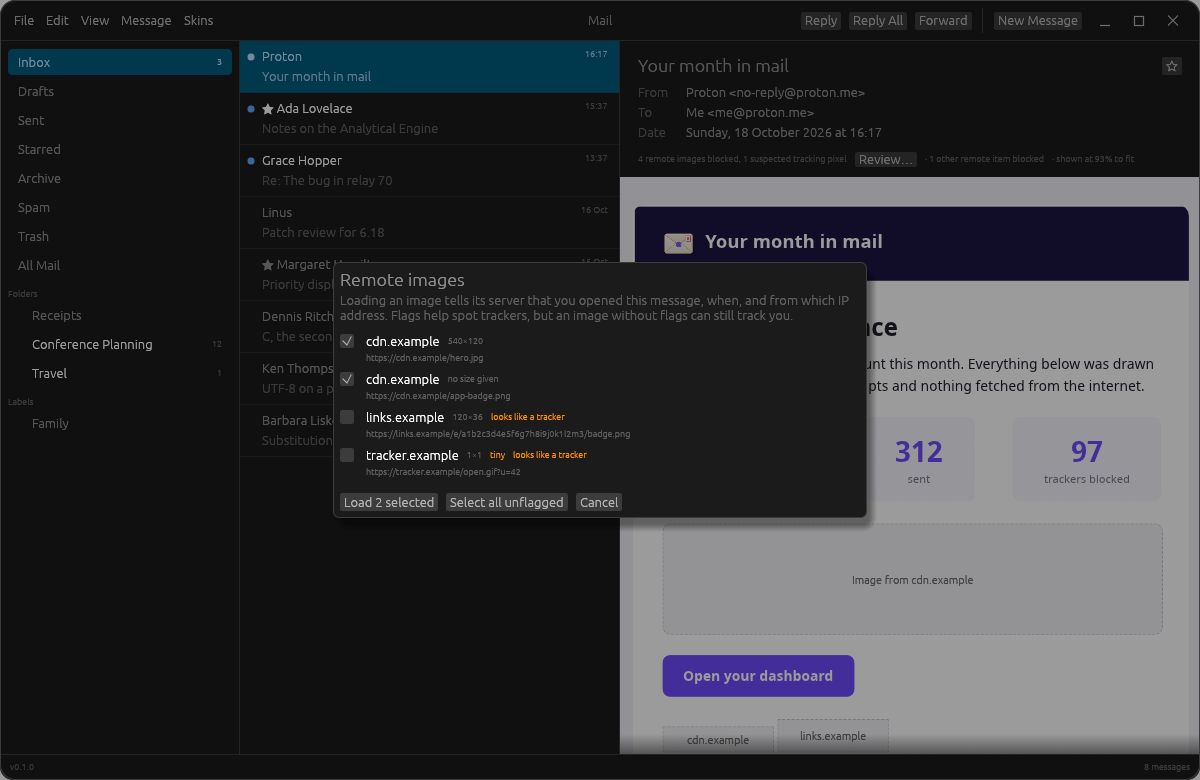
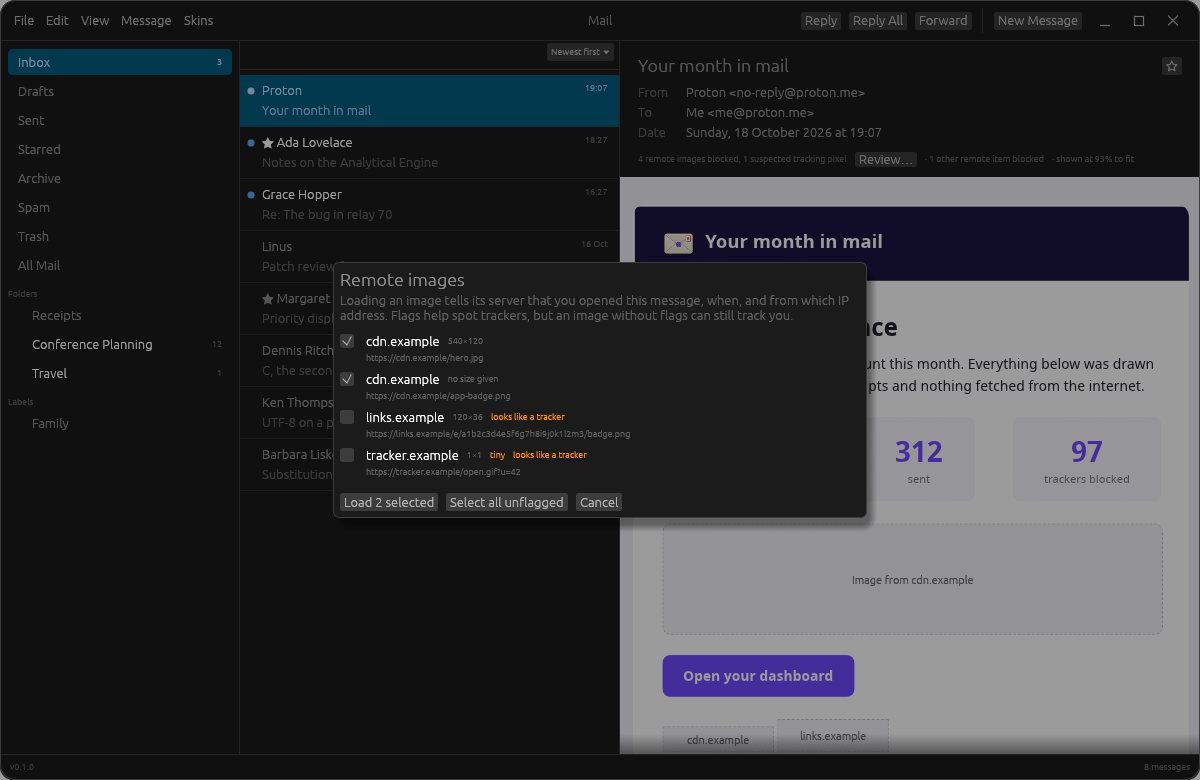
Sort the message list: date, sender or subject, either way, unread or starred at the top

Changed region(s): [[0.185, 0.0308, 0.5242, 0.6154]]

diff --git a/mail/src/app.rs b/mail/src/app.rs
@@ -11,7 +11,7 @@ use patina::skin::{self, Skin};
 use crate::compose::Draft;
 use crate::config::{self, Account, Config, Security};
 use crate::html::{self, Click, Event, Page};
-use crate::message::{self, Body, Summary};
+use crate::message::{self, Body, Order, SortBy, Summary};
 use crate::remote::{self, Fetcher, RemoteImage};
 use crate::sync::{Command, Flag, Folder, Sync, Update};
 
@@ -96,6 +96,7 @@ enum Do {
     MoveTo(&'static str),
     SaveAttachment(usize),
     ShowText(bool),
+    Sort(Order),
     /// A link clicked in an HTML message: ask before opening it.
     Link(Click),
     OpenLink(String),
@@ -214,6 +215,7 @@ impl App {
         self.selected = messages.first().map(|m| m.uid);
         self.bodies = bodies.into_iter().map(|(uid, b)| (("INBOX".to_string(), uid), b)).collect();
         self.messages = messages;
+        self.config.order.sort(&mut self.messages);
     }
 
     fn skin(&self) -> &Skin {
@@ -281,6 +283,7 @@ impl App {
                         continue;
                     }
                     self.messages = messages;
+                    self.config.order.sort(&mut self.messages);
                     self.listed = Some(folder);
                     if self.selected.is_some() && self.index().is_none() {
                         self.selected = None;
@@ -398,6 +401,12 @@ impl App {
             Do::ShowText(on) => {
                 self.config.show_text = on;
                 self.config.save();
+            }
+            Do::Sort(order) => {
+                self.config.order = order;
+                self.config.save();
+                order.sort(&mut self.messages);
+                self.scroll_to_selected = true;
             }
             Do::Link(click) => match click.url.split_once(':').map(|(scheme, _)| scheme.to_ascii_lowercase()) {
                 Some(s) if s == "mailto" => {
@@ -532,6 +541,8 @@ impl App {
             item(ui, actions, true, "Next Message", "↓", Do::Step(1));
             item(ui, actions, true, "Previous Message", "↑", Do::Step(-1));
             ui.separator();
+            ui.menu_button("Sort By", |ui| self.sort_menu(ui, actions));
+            ui.separator();
             let mut text = self.config.show_text;
             if ui.checkbox(&mut text, "Show HTML mail as text").changed() {
                 actions.push(Do::ShowText(text));
@@ -600,6 +611,31 @@ impl App {
                 actions.push(Do::OpenSkinsFolder);
             }
         });
+    }
+
+    /// Sort By, in the View menu and over the list.
+    fn sort_menu(&self, ui: &mut egui::Ui, actions: &mut Vec<Do>) {
+        ui.style_mut().wrap_mode = Some(egui::TextWrapMode::Extend);
+        let order = self.config.order;
+        for by in SortBy::ALL {
+            if ui.radio(order.by == by, by.label()).clicked() {
+                actions.push(Do::Sort(Order { by, reversed: false, ..order }));
+            }
+        }
+        ui.separator();
+        for (reversed, label) in [false, true].into_iter().zip(order.by.directions()) {
+            if ui.radio(order.reversed == reversed, label).clicked() {
+                actions.push(Do::Sort(Order { reversed, ..order }));
+            }
+        }
+        ui.separator();
+        let (mut unread, mut starred) = (order.unread_first, order.starred_first);
+        if ui.checkbox(&mut unread, "Unread at the top").changed() {
+            actions.push(Do::Sort(Order { unread_first: unread, ..order }));
+        }
+        if ui.checkbox(&mut starred, "Starred at the top").changed() {
+            actions.push(Do::Sort(Order { starred_first: starred, ..order }));
+        }
     }
 
     /// Right side of the title bar, laid out right to left: writing mail is
@@ -689,6 +725,7 @@ impl App {
     }
 
     fn message_list(&mut self, ui: &mut egui::Ui, actions: &mut Vec<Do>) {
+        self.sort_strip(ui, actions);
         if self.messages.is_empty() {
             ui.centered_and_justified(|ui| {
                 let text = if self.listed.is_none() && self.account.is_set() { "Loading…" } else { "No messages" };
@@ -720,6 +757,34 @@ impl App {
             }
         });
         ui.ctx().data_mut(|d| d.insert_temp(egui::Id::new("list-offset"), output.state.offset.y));
+    }
+
+    /// The strip over the list saying how it's sorted, which opens Sort By.
+    fn sort_strip(&self, ui: &mut egui::Ui, actions: &mut Vec<Do>) {
+        let order = self.config.order;
+        let direction = order.by.directions()[order.reversed as usize];
+        let text = match order.by {
+            SortBy::Date => direction.to_string(),
+            by => format!("{}, {direction}", by.label()),
+        };
+        egui::Frame::new().inner_margin(egui::Margin { left: 12, right: 6, top: 2, bottom: 2 }).show(ui, |ui| {
+            ui.horizontal(|ui| {
+                if order.starred_first || order.unread_first {
+                    let tops = match (order.starred_first, order.unread_first) {
+                        (true, true) => "Starred and unread at the top",
+                        (true, false) => "Starred at the top",
+                        _ => "Unread at the top",
+                    };
+                    ui.label(RichText::new(tops).small().weak());
+                }
+                ui.with_layout(egui::Layout::right_to_left(egui::Align::Center), |ui| {
+                    ui.menu_button(RichText::new(format!("{text} ⏷")).small(), |ui| self.sort_menu(ui, actions))
+                        .response
+                        .on_hover_text("Sort the list");
+                });
+            });
+        });
+        ui.separator();
     }
 
     fn reader(&mut self, ui: &mut egui::Ui, actions: &mut Vec<Do>) {

diff --git a/mail/src/message.rs b/mail/src/message.rs
@@ -6,6 +6,7 @@ use std::collections::HashMap;
 use std::fmt;
 
 use mail_parser::{Address, HeaderValue, MessageParser, MimeHeaders, PartType};
+use serde::{Deserialize, Serialize};
 
 /// The width HTML-only mail is wrapped to when turned into text.
 const HTML_WIDTH: usize = 96;
@@ -81,6 +82,82 @@ impl Summary {
         };
         Summary { uid, from, subject, date, seen, flagged }
     }
+}
+
+/// What the message list is sorted by.
+#[derive(Debug, Clone, Copy, PartialEq, Eq, Default, Serialize, Deserialize)]
+#[serde(rename_all = "lowercase")]
+pub enum SortBy {
+    #[default]
+    Date,
+    From,
+    Subject,
+}
+
+impl SortBy {
+    pub const ALL: [SortBy; 3] = [SortBy::Date, SortBy::From, SortBy::Subject];
+
+    pub fn label(self) -> &'static str {
+        match self {
+            SortBy::Date => "Date",
+            SortBy::From => "Sender",
+            SortBy::Subject => "Subject",
+        }
+    }
+
+    /// The two directions, the usual one first: newest first, A to Z.
+    pub fn directions(self) -> [&'static str; 2] {
+        match self {
+            SortBy::Date => ["Newest first", "Oldest first"],
+            SortBy::From | SortBy::Subject => ["A to Z", "Z to A"],
+        }
+    }
+}
+
+/// How the message list is ordered.
+#[derive(Debug, Clone, Copy, PartialEq, Eq, Default, Serialize, Deserialize)]
+#[serde(default)]
+pub struct Order {
+    pub by: SortBy,
+    /// The other way from the usual: oldest first, Z to A.
+    pub reversed: bool,
+    pub unread_first: bool,
+    pub starred_first: bool,
+}
+
+impl Order {
+    /// Sorts `list`. Ties go newest first, whatever the direction.
+    pub fn sort(&self, list: &mut [Summary]) {
+        let newest = |a: &Summary, b: &Summary| b.date.cmp(&a.date).then(b.uid.cmp(&a.uid));
+        list.sort_by(|a, b| {
+            let groups = (self.starred_first.then_some(!a.flagged), self.unread_first.then_some(a.seen))
+                .cmp(&(self.starred_first.then_some(!b.flagged), self.unread_first.then_some(b.seen)));
+            let key = match self.by {
+                SortBy::Date => newest(a, b),
+                SortBy::From => sender_key(a).cmp(&sender_key(b)),
+                SortBy::Subject => subject_key(&a.subject).cmp(&subject_key(&b.subject)),
+            };
+            let key = if self.reversed { key.reverse() } else { key };
+            groups.then(key).then_with(|| newest(a, b))
+        });
+    }
+}
+
+fn sender_key(m: &Summary) -> String {
+    m.from.as_ref().map(|a| a.short().trim().to_lowercase()).unwrap_or_default()
+}
+
+/// The subject without its "Re:" and "Fwd:" prefixes, so a reply sorts
+/// with what it replies to.
+fn subject_key(subject: &str) -> String {
+    let mut s = subject.trim();
+    while let Some(p) = ["re:", "fwd:", "fw:", "aw:", "sv:", "vs:", "wg:", "tr:"]
+        .iter()
+        .find(|p| s.get(..p.len()).is_some_and(|head| head.eq_ignore_ascii_case(p)))
+    {
+        s = s[p.len()..].trim_start();
+    }
+    s.to_lowercase()
 }
 
 #[derive(Debug, Clone, PartialEq)]
@@ -232,5 +309,43 @@ Content-Transfer-Encoding: base64\r\n\r\naGVsbG8=\r\n--XX--\r\n";
         let b = Body::parse(raw).unwrap();
         assert_eq!(b.text.trim(), "See attached.");
         assert_eq!(b.attachments, vec![Attachment { name: "notes.txt".into(), data: b"hello".to_vec() }]);
+    }
+
+    fn row(uid: u32, from: &str, subject: &str, date: i64, seen: bool, flagged: bool) -> Summary {
+        let from = Some(Addr { name: Some(from.into()), address: format!("{uid}@example.com") });
+        Summary { uid, from, subject: subject.into(), date, seen, flagged }
+    }
+
+    fn uids(order: Order, list: &mut [Summary]) -> Vec<u32> {
+        order.sort(list);
+        list.iter().map(|m| m.uid).collect()
+    }
+
+    #[test]
+    fn lists_sort_every_way() {
+        let mut list = vec![
+            row(1, "carol", "Re: Budget", 300, true, false),
+            row(2, "Alice", "Lunch", 100, false, true),
+            row(3, "bob", "budget", 200, false, false),
+            row(4, "Alice", "Fwd: RE: agenda", 400, true, false),
+        ];
+        let by = |by| Order { by, ..Default::default() };
+        assert_eq!(uids(Order::default(), &mut list), [4, 1, 3, 2]);
+        assert_eq!(uids(Order { reversed: true, ..Default::default() }, &mut list), [2, 3, 1, 4]);
+        // Same sender: newest first, either way round.
+        assert_eq!(uids(by(SortBy::From), &mut list), [4, 2, 3, 1]);
+        assert_eq!(uids(Order { reversed: true, ..by(SortBy::From) }, &mut list), [1, 3, 4, 2]);
+        // "Re:" and "Fwd:" don't count, nor does case.
+        assert_eq!(uids(by(SortBy::Subject), &mut list), [4, 1, 3, 2]);
+        assert_eq!(uids(Order { unread_first: true, ..Default::default() }, &mut list), [3, 2, 4, 1]);
+        let both = Order { unread_first: true, starred_first: true, ..Default::default() };
+        assert_eq!(uids(both, &mut list), [2, 3, 4, 1]);
+    }
+
+    #[test]
+    fn reply_prefixes_come_off() {
+        assert_eq!(subject_key("Re: Fwd:  RE:Plans"), "plans");
+        assert_eq!(subject_key("Reading list"), "reading list");
+        assert_eq!(subject_key("Ré: x"), "ré: x");
     }
 }

diff --git a/mail/src/config.rs b/mail/src/config.rs
@@ -6,6 +6,8 @@ use std::path::PathBuf;
 
 use serde::{Deserialize, Serialize};
 
+use crate::message::Order;
+
 #[derive(Debug, Clone, Serialize, Deserialize)]
 #[serde(default)]
 pub struct Config {
@@ -17,6 +19,8 @@ pub struct Config {
     pub system_title_bar: bool,
     /// Show HTML mail as converted text instead of drawing it (ADR-0005).
     pub show_text: bool,
+    /// How the message list is sorted, for every folder.
+    pub order: Order,
 }
 
 impl Default for Config {
@@ -27,6 +31,7 @@ impl Default for Config {
             light_dark: "system".into(),
             system_title_bar: false,
             show_text: false,
+            order: Order::default(),
         }
     }
 }

diff --git a/mail/README.md b/mail/README.md
@@ -13,6 +13,9 @@ skins as Calendar, Notebook and the rest of the family.
 
 - Your Proton folders and labels, with unread counts.
 - A folder's newest 200 messages; open one to read it.
+- Sort the list by date, sender or subject, either way round, with unread or starred mail at
+  the top if you like: from the strip over the list, or View → Sort By. Sorting by subject ignores
+  "Re:" and "Fwd:".
 - HTML mail drawn as its sender meant, by [Blitz](https://github.com/DioxusLabs/blitz), but safely:
   no scripts ever run, and nothing is fetched from the internet unless you choose. Remote images
   show as boxes naming their server: click one to load it, or use Review… to see every image with

diff --git a/mail/CLAUDE.md b/mail/CLAUDE.md
@@ -36,7 +36,8 @@ Bridge files sent mail in Sent itself, so Mail doesn't append it.
 ## Layout
 
 - `src/config.rs`: `config.toml` and the private `account.toml` (`Account`, `Security`).
-- `src/message.rs`: `Summary` (list rows, from headers) and `Body` (whole message) via mail-parser;
+- `src/message.rs`: `Summary` (list rows, from headers), `Order` (how the list sorts; kept in
+  `config.toml`) and `Body` (whole message) via mail-parser;
   HTML-only mail through html2text.
 - `src/compose.rs`: `Draft`, reply/reply-all/forward, building the lettre `Message`.
 - `src/html.rs`: HTML mail through Blitz (ADR-0004, ADR-0005): the `Guard` net provider (only
